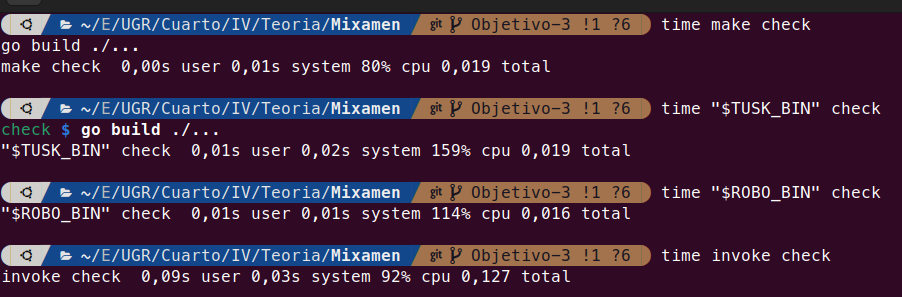
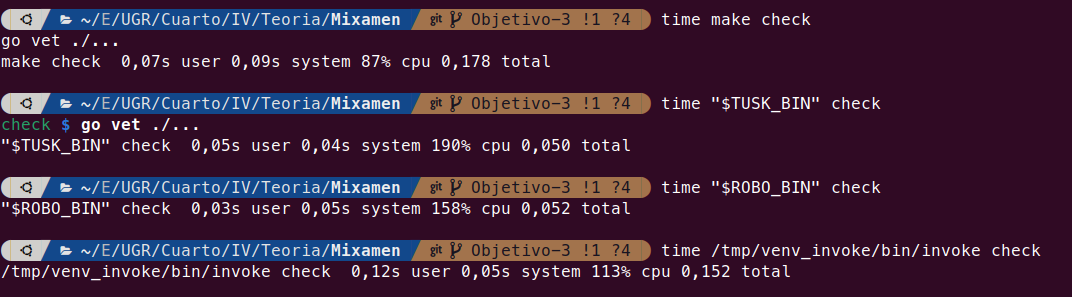
refs #21 actualizo check a go vet, y elimino criterios irrelevantes

diff --git a/doc/decision_gestores.md b/doc/decision_gestores.md
@@ -4,31 +4,30 @@ En Go, el gestor de dependencias estándar y nativo es `go mod`. Al ser el está
 
 Para elegir el gestor de tareas del proyecto he evaluado cuatro alternativas: **Make** (estándar POSIX), **Tusk** (YAML escrito en Go), **Robo** (YAML escrito en Go) e **Invoke** (gestor de tareas en Python). Los criterios objetivos medidos son:
 
-- Tiempo de instalación usando el instalador binario oficial más rápido disponible.
-- Tiempo de arranque y gestión al lanzar la misma tarea `check` ejecutando `go build ./...` en la raíz del proyecto.
-- Tamaño del binario instalado en disco.
-- Tamaño del fichero de configuración mínimo para definir la misma tarea.
+- Tiempo de instalación usando el método oficial más directo en Linux (en un entorno Go).
+- Tiempo de arranque y ejecución al lanzar la misma tarea `check` ejecutando `go vet ./...` en la raíz del proyecto.
 
 ## Pruebas objetivas
 
 En primer lugar, he medido el tiempo que tarda cada herramienta en instalarse en el sistema mediante `time`:
 
 ![Medición de instalación](../media/tInstalacion.png)
+![Medición de instalación invoke + pip](../media/tInstalacion_invokePip.png)
 
 Make es el único que no tiene captura ya que viene preinstalado en Linux.
 
-A continuación, he lanzado `time <herramienta> check` ejecutando `go build ./...`:
-
-![Tamaño de las herramientas](../media/tam_herramientas.png)
-![Tamaño invoke](../media/tam_invoke.png)
+A continuación, he lanzado `time <herramienta> check` ejecutando `go vet ./...`:
 
 ![Tiempo de ejecución](../media/tEjecucion.png)
+![Tiempo de ejecución de make](../media/tEjecucion_make.png)
+
+He ejecutado dos veces make, ya que en la primera cuenta con la desventaja de ser el primero en ejecutarse y por lo tanto no disponía de información en la caché de Go, es por eso que tarda más en la primera ejecución.
 
 Resultados de las pruebas:
 
-* **Make:** viene preinstalado en el sistema (0s de instalación), su binario ocupa 254 KB, el Makefile de `check` ocupa 22 bytes y ejecuta la comprobación en 0.019s.
-* **Tusk:** tarda 5.582s en instalarse con `go install`, ocupa 7.9M, su fichero de configuración ocupa 44 bytes y ejecuta `check` en 0.019s.
-* **Robo:** tarda 4.226s en instalarse con `go install`, ocupa 5.6M, su fichero de configuración ocupa 32 bytes y ejecuta `check` en 0.016s.
-* **Invoke:** tarda 1.740s en instalarse mediante `pip`, ocupa 1.5M, su fichero ocupa 76 bytes y ejecuta `check` en 0.127s.
+* **Make:** viene preinstalado en el sistema (0s de instalación) y ejecuta `check` en 0.039s.
+* **Tusk:** tarda 5.582s en instalarse con `go install` y ejecuta `check` en 0.050s.
+* **Robo:** tarda 4.226s en instalarse con `go install` y ejecuta `check` en 0.052s.
+* **Invoke:** tarda 1.943s en instalarse `pip` y la herramienta, y ejecuta `check` en 0.152s.
 
-*Decisión:* He elegido usar **Make** porque es la que mejor resultado obtiene en todo lo que ha sido evaluado menos en la ejecución del check en la cual gana Robo por 0.003s. He dudado con usar Robo por esto mismo pero creo que no merece la pena ya que en todo lo demás Make sale ganando y 0.003s no hace la diferencia como para elegir a Robo solo por ello.
+*Decisión:* 
